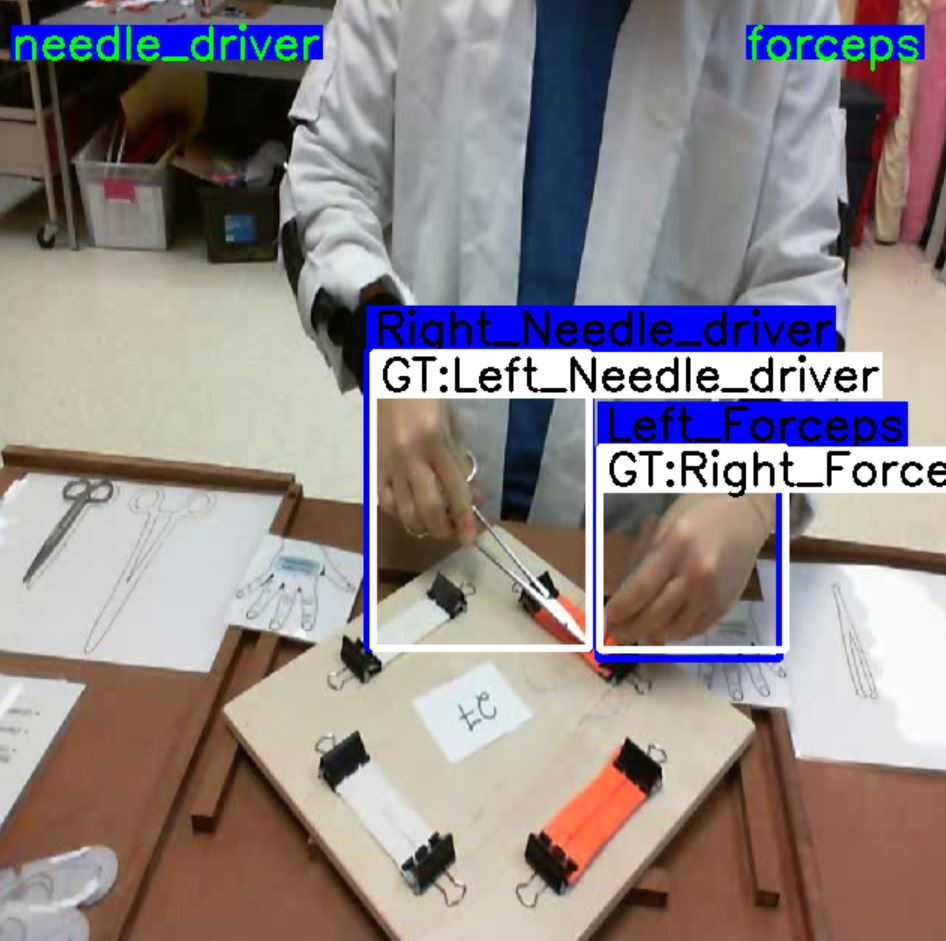
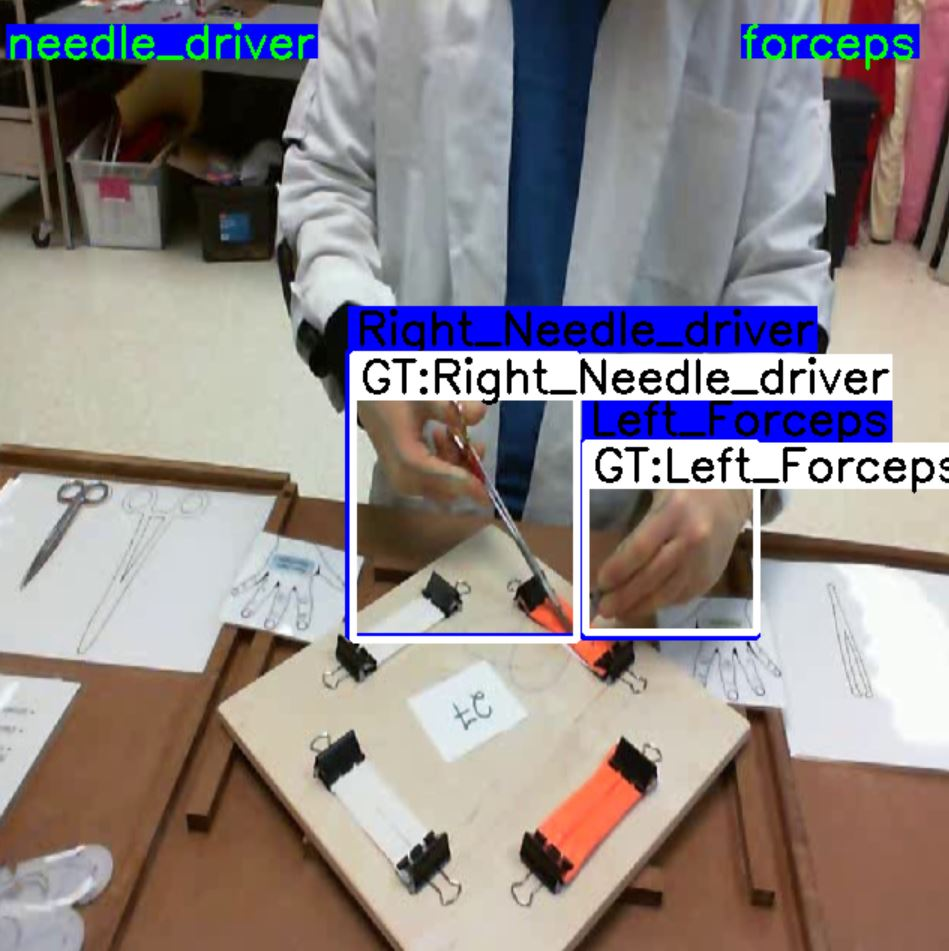
update image with correct labels

diff --git a/predict.py b/predict.py
@@ -2,12 +2,13 @@ import bbox_visualizer as bbv
 import torch
 import numpy as np
 from helpers import *
+import cv2
 
 
 ## load paths of different files
 PATH = 'sample_images/images'
 FILES = os.listdir(PATH)
-rand_idx = np.random.choice(list(range(len(FILES))), 1)[0]
+rand_idx = 2 ## can be changes to 0 .. 6
 curr_file = FILES[rand_idx]
 image_path = os.path.join(PATH, curr_file) ## ex: P016_tissue1_6625
 file_name = '_'.join(curr_file.split('_')[:2])
@@ -48,7 +49,7 @@ try:
         boxes1 = df_to_bbox(output_df)
         labels = [output_df['name'].values[0]]
 except TypeError:
-    # no detections
+    ## TODO - handle
     boxes1 = []
     labels = []
 
@@ -72,8 +73,9 @@ frame = bbv.add_multiple_labels(frame, labels, boxes1, top = False)
 
 
 # Display the resulting frame
+# image = cv2.copyMakeBorder(frame, 15,15,15,15, borderType = cv2.BORDER_CONSTANT)
 cv2.namedWindow("Frame", cv2.WINDOW_NORMAL)
-cv2.imshow('Frame', frame)
+cv2.imshow('Frame', image)
 cv2.waitKey(0) #is required so that the image doesn’t close immediately. It will Wait for a key press before closing the image.
 
 # Closes all the frames

diff --git a/helpers.py b/helpers.py
@@ -28,7 +28,7 @@ def extract_label(df, frame_idx):
 def draw_text(img, text,
           font=cv2.FONT_ITALIC,
           pos=(0, 0),
-          font_scale=3,
+          font_scale=0.5,
           font_thickness=2,
           text_color=(0, 255, 0),
           text_color_bg=(0, 0, 0), draw='right'
@@ -74,8 +74,10 @@ def df_to_bbox(df):
     return bbox
 
 
-indexToYolo = {'0': 'Left_Empty', '1': 'Left_Forceps', '2': 'Left_Needle_driver', '3': 'Left_Scissors', '4': 'Right_Empty', \
-          '5': 'Right_Forceps', '6' : 'Right_Needle_driver', '7': 'Right_Scissors'}
+indexToYolo = {'0': 'Right_Scissors', '1': 'Left_Scissors', '2': 'Right_Needle_driver', '3': 'Left_Needle_driver',
+               '4': 'Right_Forceps', \
+          '5': 'Left_Forceps', '6' : 'Right_Empty', '7': 'Left_Empty'}
+
 
 def darknetbbox_to_yolo(df, w_img=640, h_img=640):
     """
